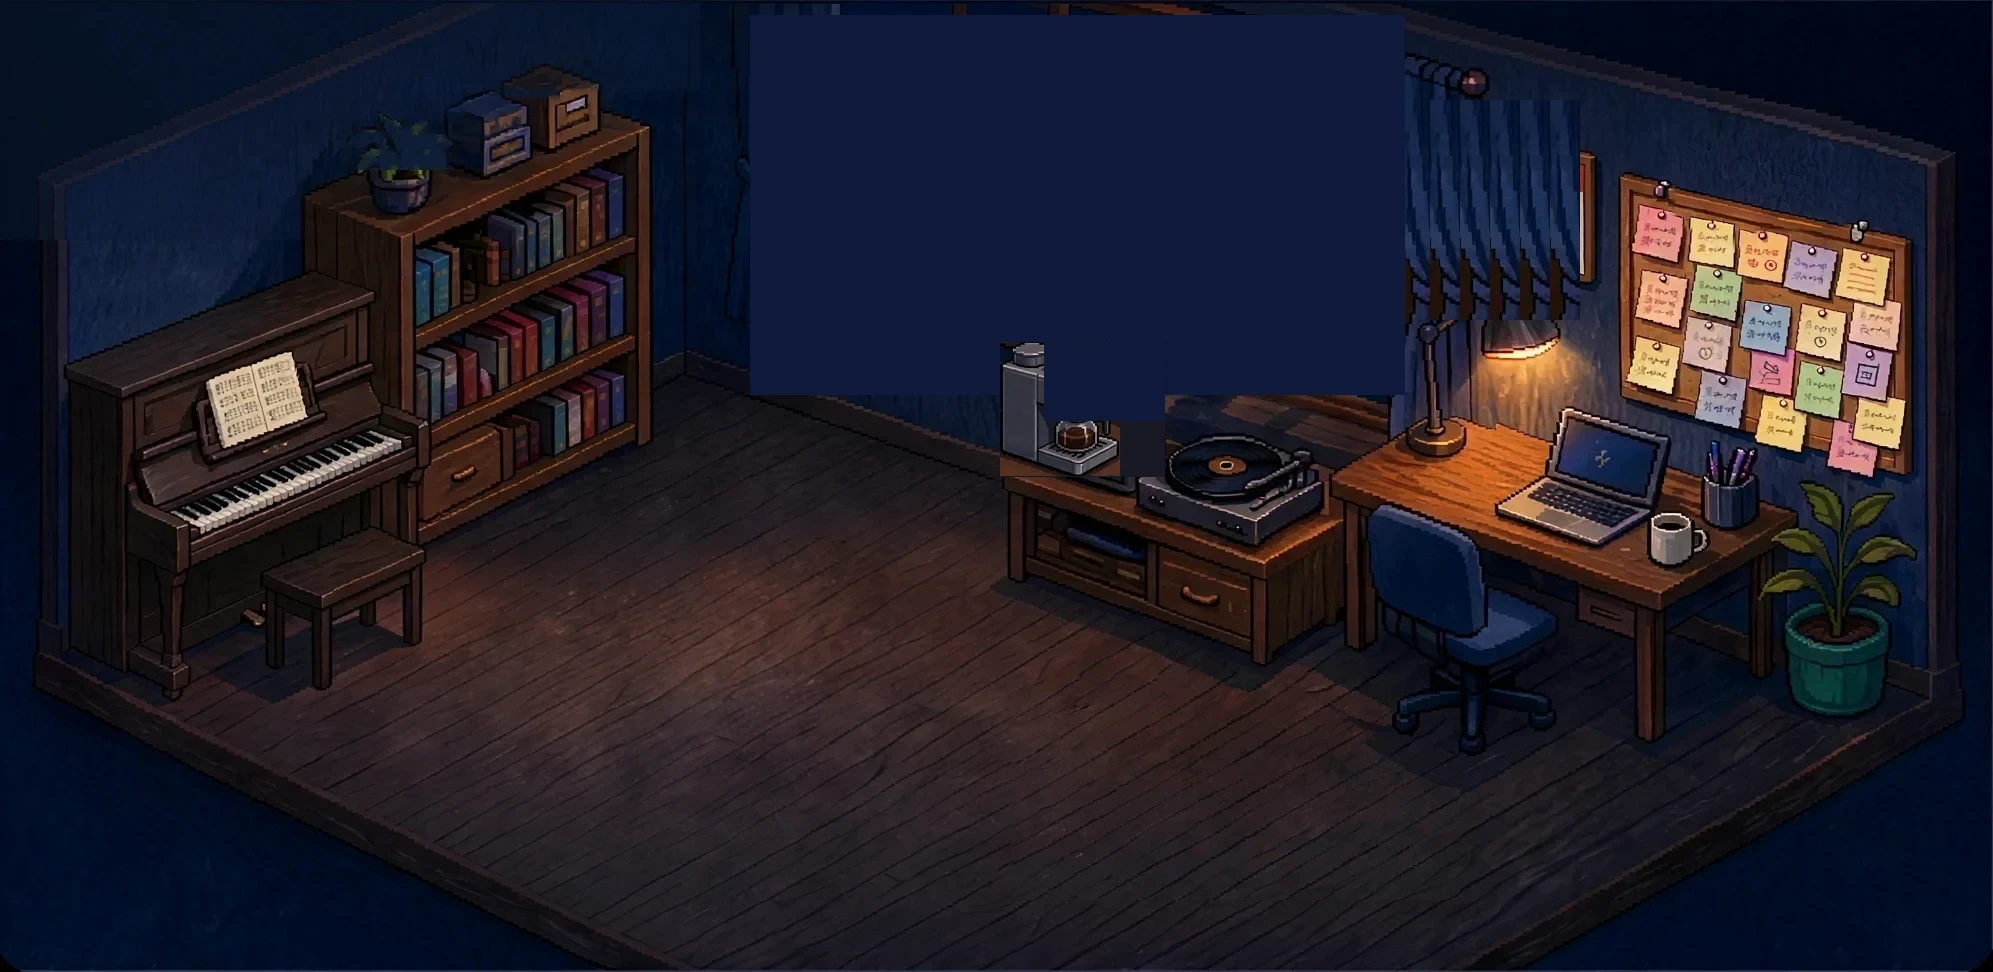
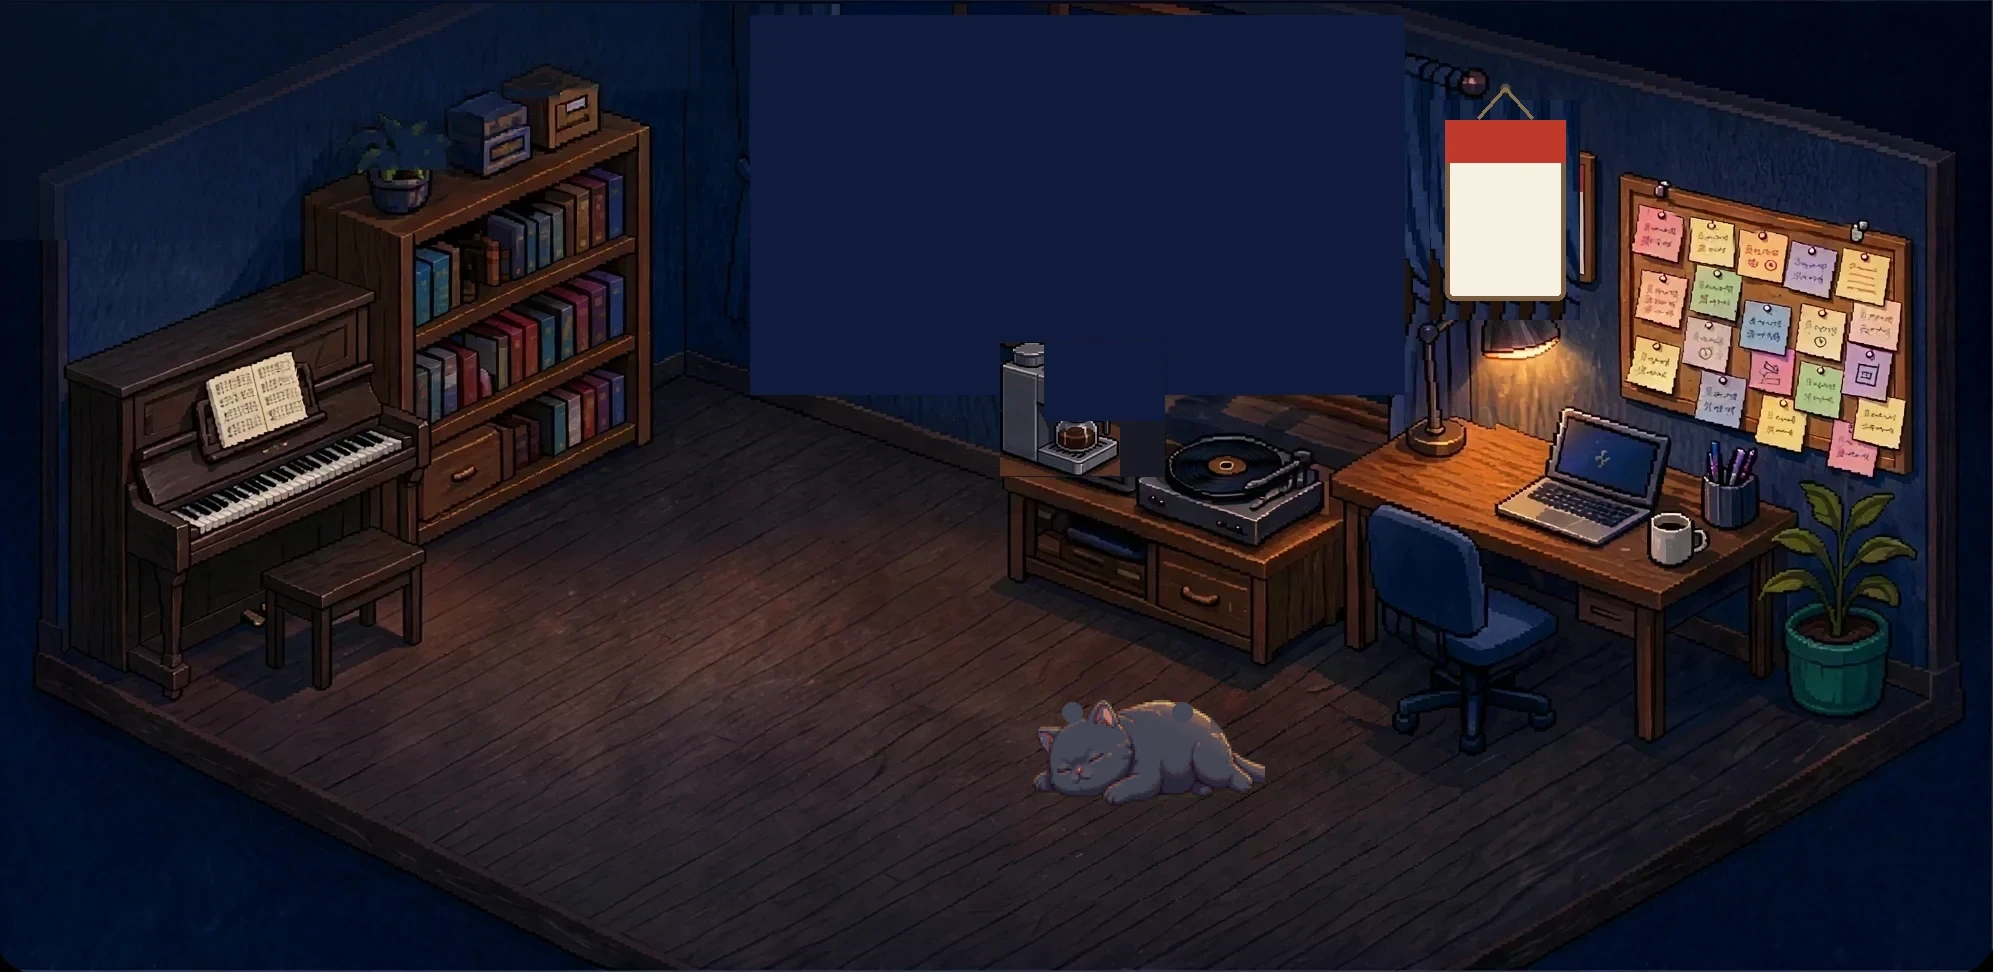
v5.0: SVG rebuild, single viewBox (no misalignment possible). Day/night plates cross-fade 06-18. SVG weather in window (Hangzhou live). Pixel-arrow hints, no text labels. Piano keys + vinyl with day/night coords. Tap-to-walk.

Changed region(s): [[0.7155, 0.0926, 0.8088, 0.3086], [0.4977, 0.7099, 0.6533, 0.8333]]

diff --git a/index.html b/index.html
@@ -59,25 +59,15 @@
     <line x1="710" y1="175" x2="1330" y2="175" stroke="#5a3d24" stroke-width="10"/>
   </g>
 
-  <!-- 钢琴键：12键，透明覆盖（150,450)-(350,480)，按下时高亮 -->
-  <g id="keys"></g>
+  <!-- 钢琴键已 baked，播放时只显示音符 -->
 
   <!-- 唱片：带阴影 -->
   <ellipse id="vinylShadow" cx="1249" cy="510" rx="58" ry="10" fill="rgba(0,0,0,.35)"/>
   <image id="vinyl" href="assets/disc.png" x="1191" y="429" width="116" height="77"/>
 
-  <!-- 日历：挂墙，无文字标签，单层 -->
-  <g id="cal">
-    <circle cx="1505" cy="88" r="6" fill="#4a4a4a" stroke="#222" stroke-width="2"/>
-    <line x1="1505" y1="88" x2="1478" y2="118" stroke="#8a6d4a" stroke-width="3"/>
-    <line x1="1505" y1="88" x2="1532" y2="118" stroke="#8a6d4a" stroke-width="3"/>
-    <rect x="1445" y="120" width="120" height="180" rx="8" fill="#f7f1e3" stroke="#7a5c3e" stroke-width="5"/>
-    <rect x="1445" y="120" width="120" height="42" fill="#c0392b"/>
-  </g>
+  <!-- 日历已 baked 进底图 -->
 
-  <!-- 猫：无粉色，全灰 -->
-  <ellipse class="shadow" cx="1148" cy="800" rx="110" ry="18"/>
-  <image id="cat" href="assets/cat-body.png" x="1032" y="700" width="233" height="106"/>
+  <!-- 猫已 baked 进底图 -->
 
   <!-- 人物 -->
   <ellipse id="girlShadow" class="shadow" cx="0" cy="0" rx="34" ry="10"/>
@@ -130,17 +120,8 @@ function toggleMusic(){
   if(playing){ bgm.play().catch(()=>{}); $('vinyl').classList.add('spin'); setMusicNote(boy.x, boy.y-190, true); startPianoAuto(); say('Rae','♪ 钢琴自己弹起来了'); }
   else { bgm.pause(); $('vinyl').classList.remove('spin'); setMusicNote(0,0,false); stopPianoAuto(); say('Rae','音乐停了。'); }
 }
-function startPianoAuto(){
-  stopPianoAuto();
-  const chords = [[0,4,7],[2,5,9],[4,7,11],[5,9,0]];
-  let ci = 0;
-  pianoTimer = setInterval(()=>{
-    const ch = chords[ci++ % chords.length];
-    ch.forEach(k=>pressKey(k,true));
-    setTimeout(()=>ch.forEach(k=>pressKey(k,false)), 700);
-  }, 1100);
-}
-function stopPianoAuto(){ if(pianoTimer){ clearInterval(pianoTimer); pianoTimer=null; } KEYS.els.forEach((_,i)=>pressKey(i,false)); }
+function startPianoAuto(){ stopPianoAuto(); }
+function stopPianoAuto(){ if(pianoTimer){ clearInterval(pianoTimer); pianoTimer=null; } }
 
 /* ---------- 面板内容 ---------- */
 const PANELS = {
@@ -277,23 +258,6 @@ function walkGirl(){
   requestAnimationFrame(step);
 }
 
-/* ---------- 钢琴键 ---------- */
-const KEYS_NIGHT = { x0:150, y0:450, x1:350, y1:480 };
-const KEYS = { n:12, els:[], cur:null };
-function buildKeys(pos){
-  const g = $('keys'); g.innerHTML=''; KEYS.els=[];
-  const kw = (pos.x1-pos.x0)/KEYS.n, kh = pos.y1-pos.y0;
-  for(let i=0;i<KEYS.n;i++){
-    const r = el('rect',{ x:pos.x0+i*kw+1, y:pos.y0, width:kw-2, height:kh, fill:'#c9a86a', 'fill-opacity':0, stroke:'none' },g);
-    KEYS.els.push(r);
-  }
-  KEYS.cur = pos;
-}
-function pressKey(i, down){
-  const r = KEYS.els[i]; if(!r || !KEYS.cur) return;
-  r.setAttribute('fill-opacity', down ? 0.7 : 0);
-  r.setAttribute('y', down ? KEYS.cur.y0+4 : KEYS.cur.y0);
-}
 
 /* ---------- 唱片 ---------- */
 const VINYL_NIGHT = { x:1191, y:429, w:116, h:77 };
@@ -385,7 +349,7 @@ function drawWeather(){
 
 /* ---------- 初始化 ---------- */
 place(boy); place(girl);
-buildKeys(KEYS_NIGHT);
+
 placeVinyl(VINYL_NIGHT);
 drawWeather();
 
